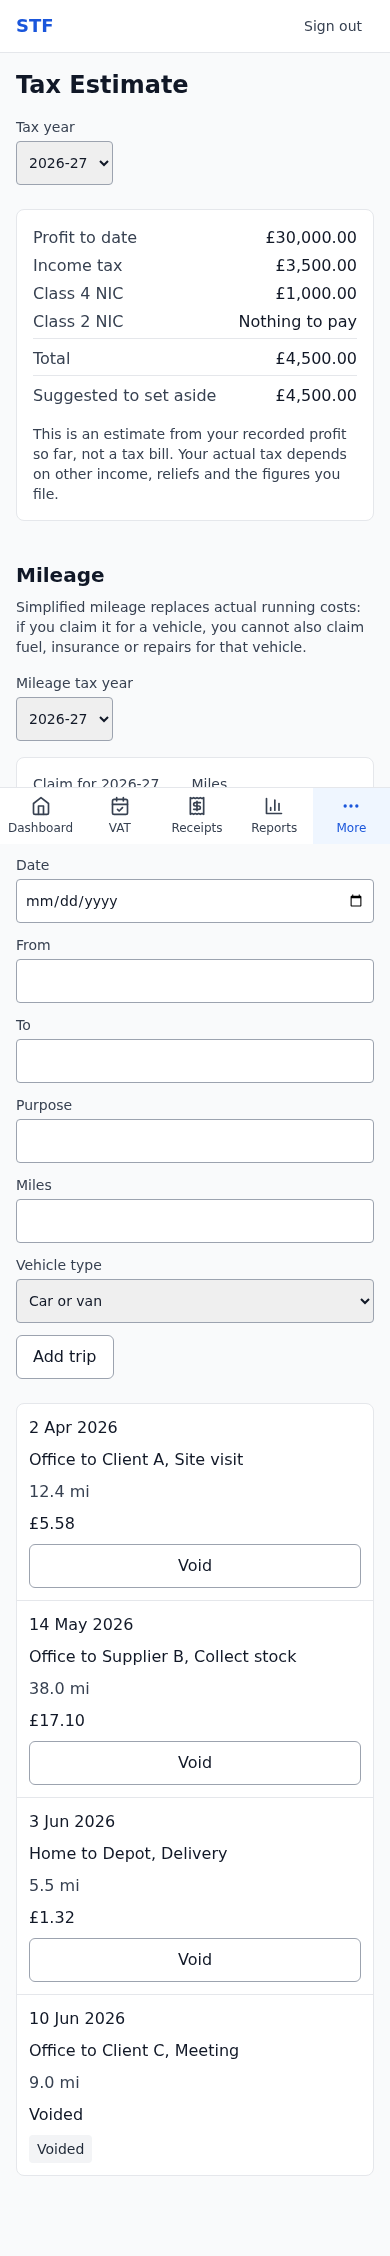
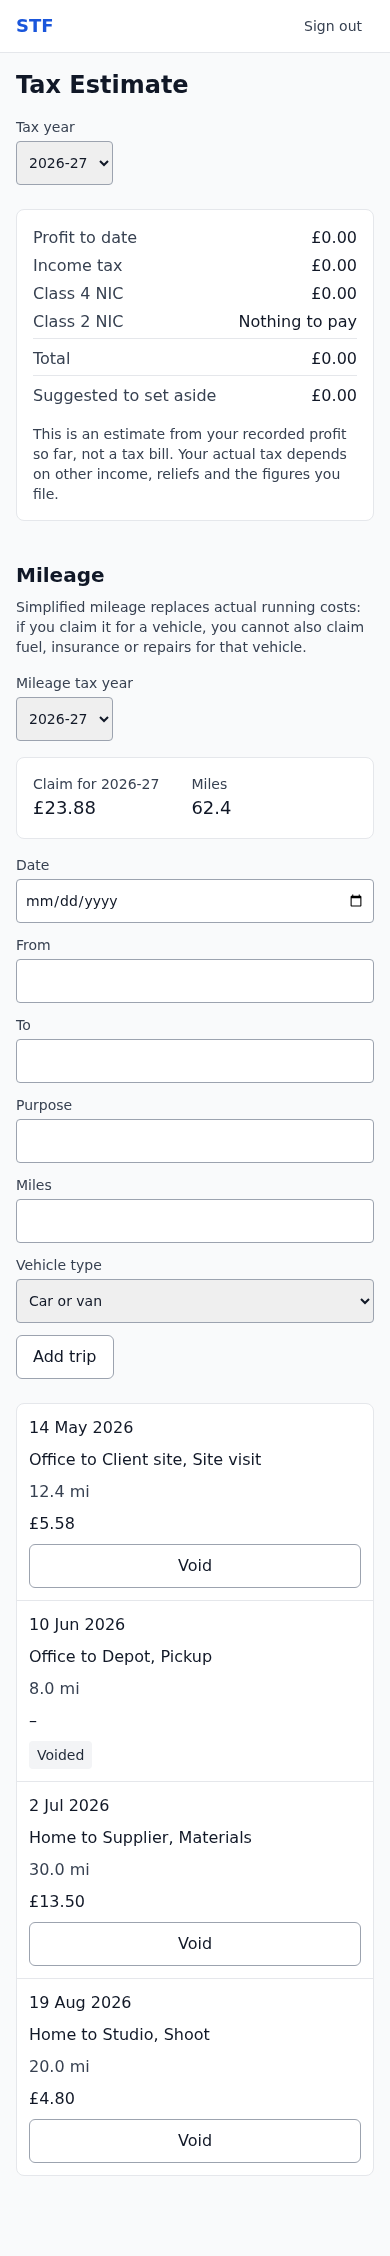
STF-49: summary skips mileage for years without rates, one Voided marker, recaptured screenshots

diff --git a/api/_lib/taxYearSummary.ts b/api/_lib/taxYearSummary.ts
@@ -4,6 +4,7 @@ import { accounts, transactionLines, transactions } from '../../server/src/db/sc
 import type { DatePeriod } from '../../src/lib/dashboardSummary.js';
 import { buildTaxYearSummary, taxYearPeriod, type TaxYearLine, type TaxYearSummary } from '../../src/lib/taxYearSummary.js';
 import { calculateMileageClaim } from '../../src/lib/mileage.js';
+import { TAX_BANDS } from '../../src/lib/taxBands.js';
 import { db } from './db.js';
 import { databaseMileageStore, listTrips, type StoredTrip } from './mileage.js';
 import { LEDGER_LINE_LIMIT } from './vatReturns.js';
@@ -26,8 +27,12 @@ const taxYearLabel = (period: DatePeriod): string => {
 };
 
 export async function getTaxYearSummary(store: TaxYearSummaryStore, userId: string, period: DatePeriod): Promise<TaxYearSummary> {
+  const taxYear = taxYearLabel(period);
+  // Years outside the tax bands file have no mileage rates, so they carry no claim rather than failing the summary.
+  // ponytail: loadTrips throws MileageLimitError past MILEAGE_TRIP_LIMIT (2000) trips in a year; the summary then 500s. Upgrade: map it to a 413 in both handlers.
+  if (!(taxYear in TAX_BANDS)) return buildTaxYearSummary(await store.loadLines(userId, period), period, 0);
   const [lines, trips] = await Promise.all([store.loadLines(userId, period), store.loadTrips(userId, period)]);
-  return buildTaxYearSummary(lines, period, calculateMileageClaim(trips.filter((trip) => trip.deletedAt === null), taxYearLabel(period)).totalPence);
+  return buildTaxYearSummary(lines, period, calculateMileageClaim(trips.filter((trip) => trip.deletedAt === null), taxYear).totalPence);
 }
 
 // Query audit: filters on transactions.user_id and date, served by transactions_user_date_idx

diff --git a/api/_lib/__tests__/taxYearSummaryRoute.test.ts b/api/_lib/__tests__/taxYearSummaryRoute.test.ts
@@ -86,6 +86,14 @@ describe('tax year summary route', () => {
     expect(data.expenseCategories).toEqual([{ taxCategory: 'travel', totalPence: 9500 }]);
   });
 
+  it('still summarises a well-formed year with no mileage rates, without loading trips', async () => {
+    const { store, asked } = makeStore([trip({ date: '2022-07-11' })]);
+    const response = await get(store, '?taxYear=2022-23', 'owner');
+    expect(response.status).toBe(200);
+    expect(asked).toEqual(['owner:2022-04-06..2023-04-05']);
+    expect((await response.json()).data.expenseCategories).toEqual([{ taxCategory: 'travel', totalPence: 5000 }]);
+  });
+
   it.each(['', '?taxYear=2026', '?taxYear=2026-28'])('rejects bad tax year %s without touching the store', async (query) => {
     const { store, asked } = makeStore();
     expect((await get(store, query, 'owner')).status).toBe(400);

diff --git a/src/pages/MileageSection.tsx b/src/pages/MileageSection.tsx
@@ -233,7 +233,7 @@ export default function MileageSection() {
                   </span>
                   <span className="tabular-nums text-gray-700 md:text-right">{formatMiles(trip.distanceTenths)} mi</span>
                   <span className="tabular-nums text-gray-900 md:text-right">
-                    {trip.deletedAt ? 'Voided' : formatPence(claimFor(trip.id))}
+                    {trip.deletedAt ? '–' : formatPence(claimFor(trip.id))}
                   </span>
                   {trip.deletedAt ? (
                     <span className="inline-block w-fit rounded bg-gray-100 px-2 py-1 text-sm text-gray-800">Voided</span>
